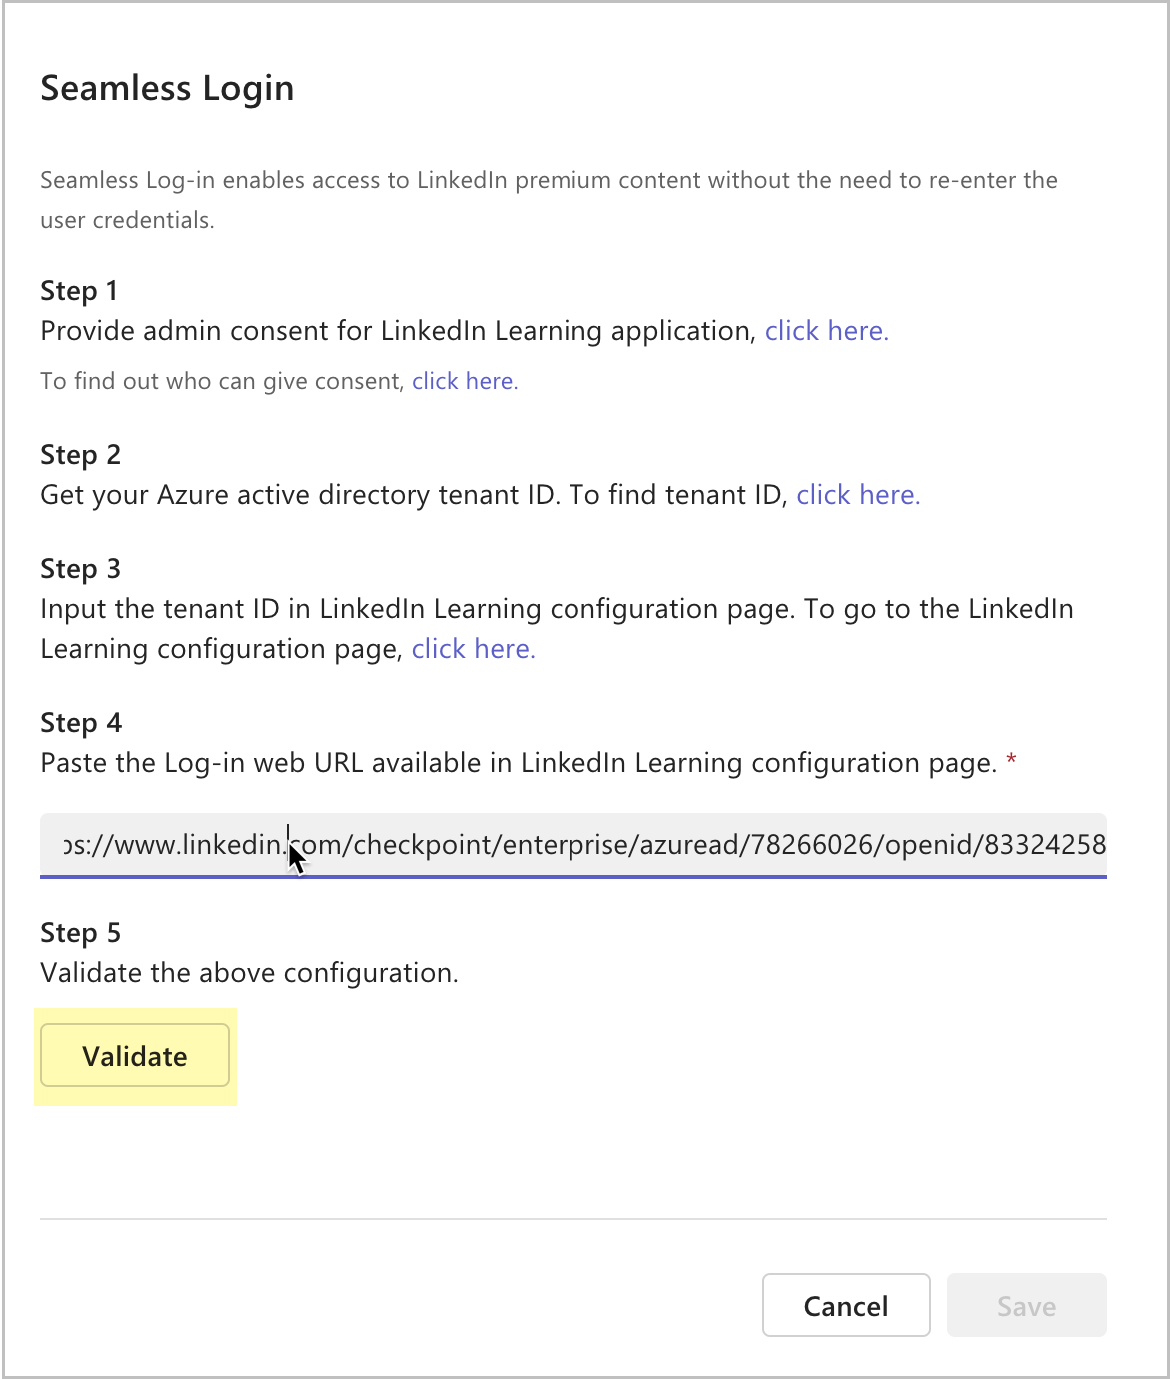
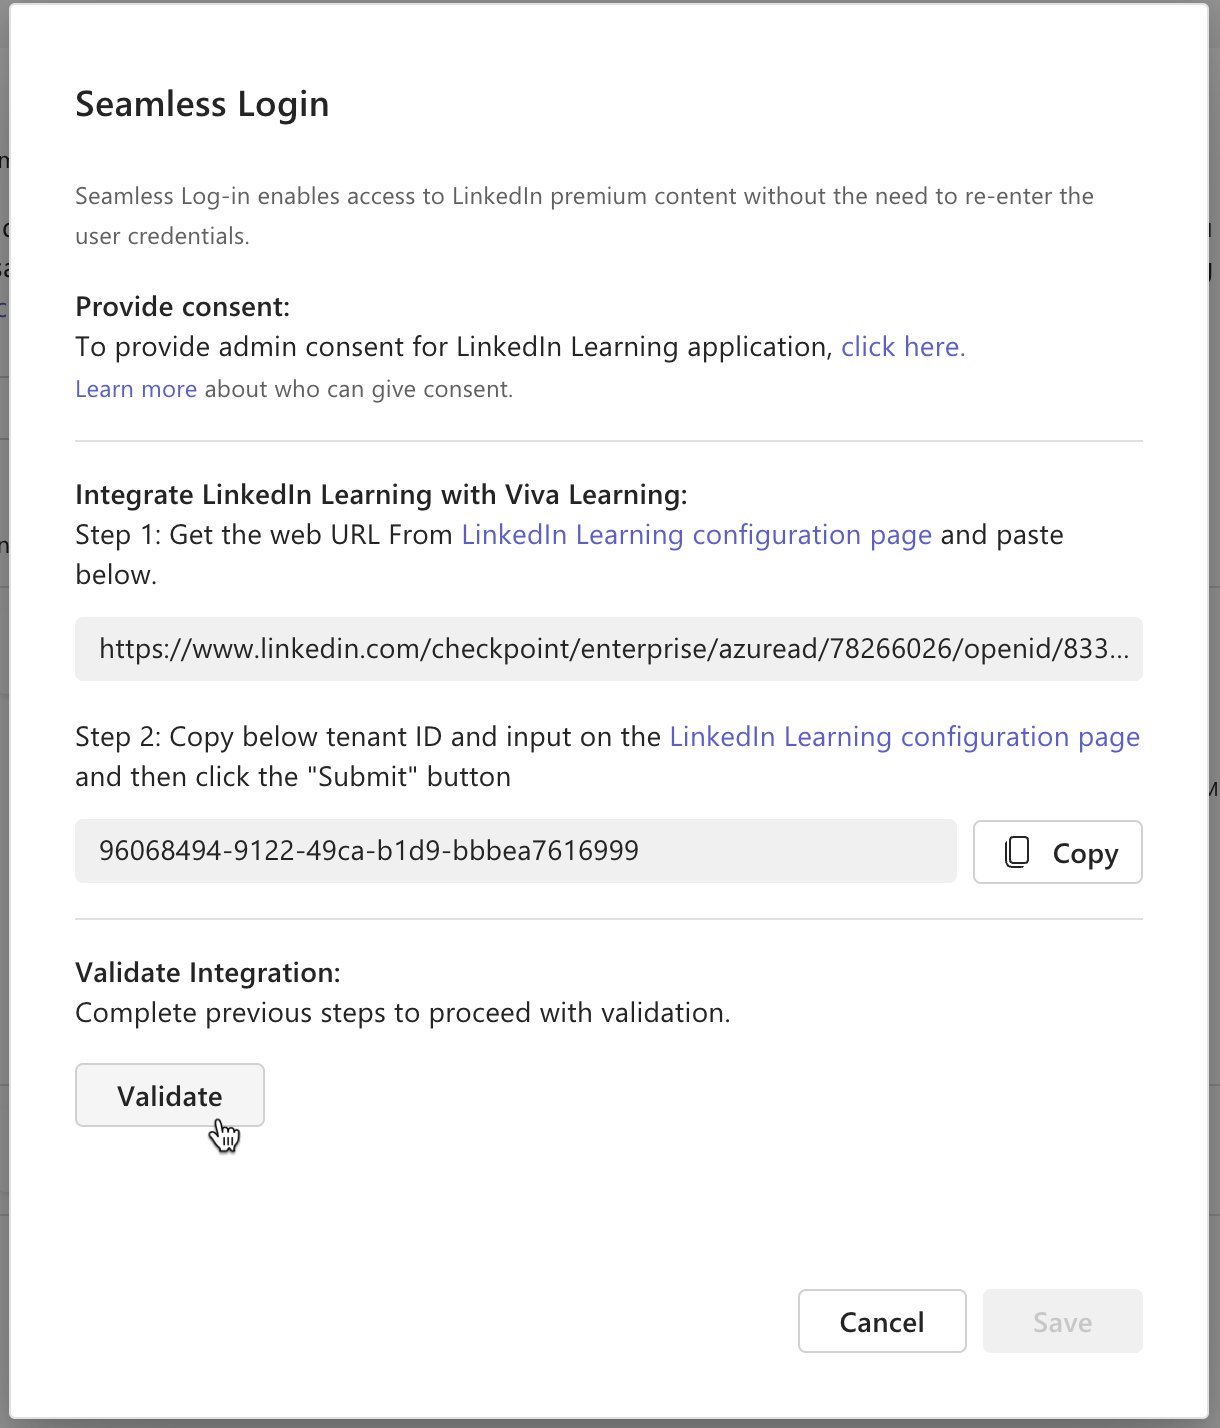
updates for Seamless log in

Changed region(s): [[0.0, 0.0, 1.0, 1.0], [0.8308, 0.3742, 0.8615, 0.4054]]

diff --git a/Viva/learning/linkedin-learning-free-courses.md b/Viva/learning/linkedin-learning-free-courses.md
@@ -4,7 +4,7 @@ ms.author: bhaswatic
 author: bhaswatic
 manager: pamgreen
 ms.reviewer: chrisarnoldmsft
-ms.date: 11/06/2023
+ms.date: 01/31/2024
 audience: admin
 ms.topic: article
 ms.service: viva
@@ -39,7 +39,6 @@ To enable this, you can set the following configurations:
 
 2. Turn on **Seamless Login** for LinkedIn in the Manage providers pane.
 
-
 ![The manage providers pane with the seamless login enabled for LinkedIn Learning](../media/learning/linkedin-learning-seamless-1-enable-toggle.png)
 
 ![Seamless login menu with an outline of the following steps.](../media/learning/linkedin-learning-seamless-2.png)
@@ -51,21 +50,23 @@ To enable this, you can set the following configurations:
   > [!IMPORTANT]
   > The consent is provided only by specific roles in the organization. Review who can [grant tenant-wide admin consent](learn.microsoft.com/en-us/entra/identity/enterprise-apps/grant-admin-consent?pivots=portal#prerequisites) in Enterprise applications.
 
-4. Get tenant **Azure active directory ID**: This ID is required in the following steps. Note this ID before moving to the next step. Find our how to get your [active directory ID](https://learn.microsoft.com/en-us/partner-center/find-ids-and-domain-names).
+4. Integrate with Viva learning 
+    1. Get the single sign-on WebURL from the LinkedIn Learning Admin page.  
+    You can reach this via the link shown or go to the **LinkedIn Admin configuration** > **Authenticate** > **Set up Viva Learning Authentication**.
+    2. Enter the WebURL in Viva Learning.
+    3. On the same LinkedIn Learning configuration page, enter the Entra tenant ID. The Entra ID is shown in the Viva Learning configuration. 
 
-5. Input the **tenant ID** in the LinkedIn configuration page by selecting the link in the previous step.
+> [!IMPORTANT]
+> On the LinkedIn configuration page, select **Submit** after entering the tenant ID and copying the Link to ensure that configuration is saved.
 
 ![LinkedIn configuration page where you copy the link to Viva Learning enter your Viva Tenant](../media/learning/linkedin-learning-seamless-4-linkedin-config.png)
 
-6. Copy the **login web URL** from the LinkedIn configuration page and paste it in Viva Learning.
-
-7. Select **Submit** after entering the tenant ID and copying the link.
 
 ![The seamless login screen with the linked copied from LinkedIn](../media/learning/linkedin-learning-seamless-5-validate.png)
 
-8. Select **Validate** to confirm the settings.
+8. Select **Validate** and follow the steps to confirm the configuration works.
 
-9. Use your organization's LinkedIn Learning credentials to log in and go through the validation process.  
+9. If prompted, use your organization's LinkedIn Learning credentials to log in.
 
 10. Select **Save** to save the configurations.
 
